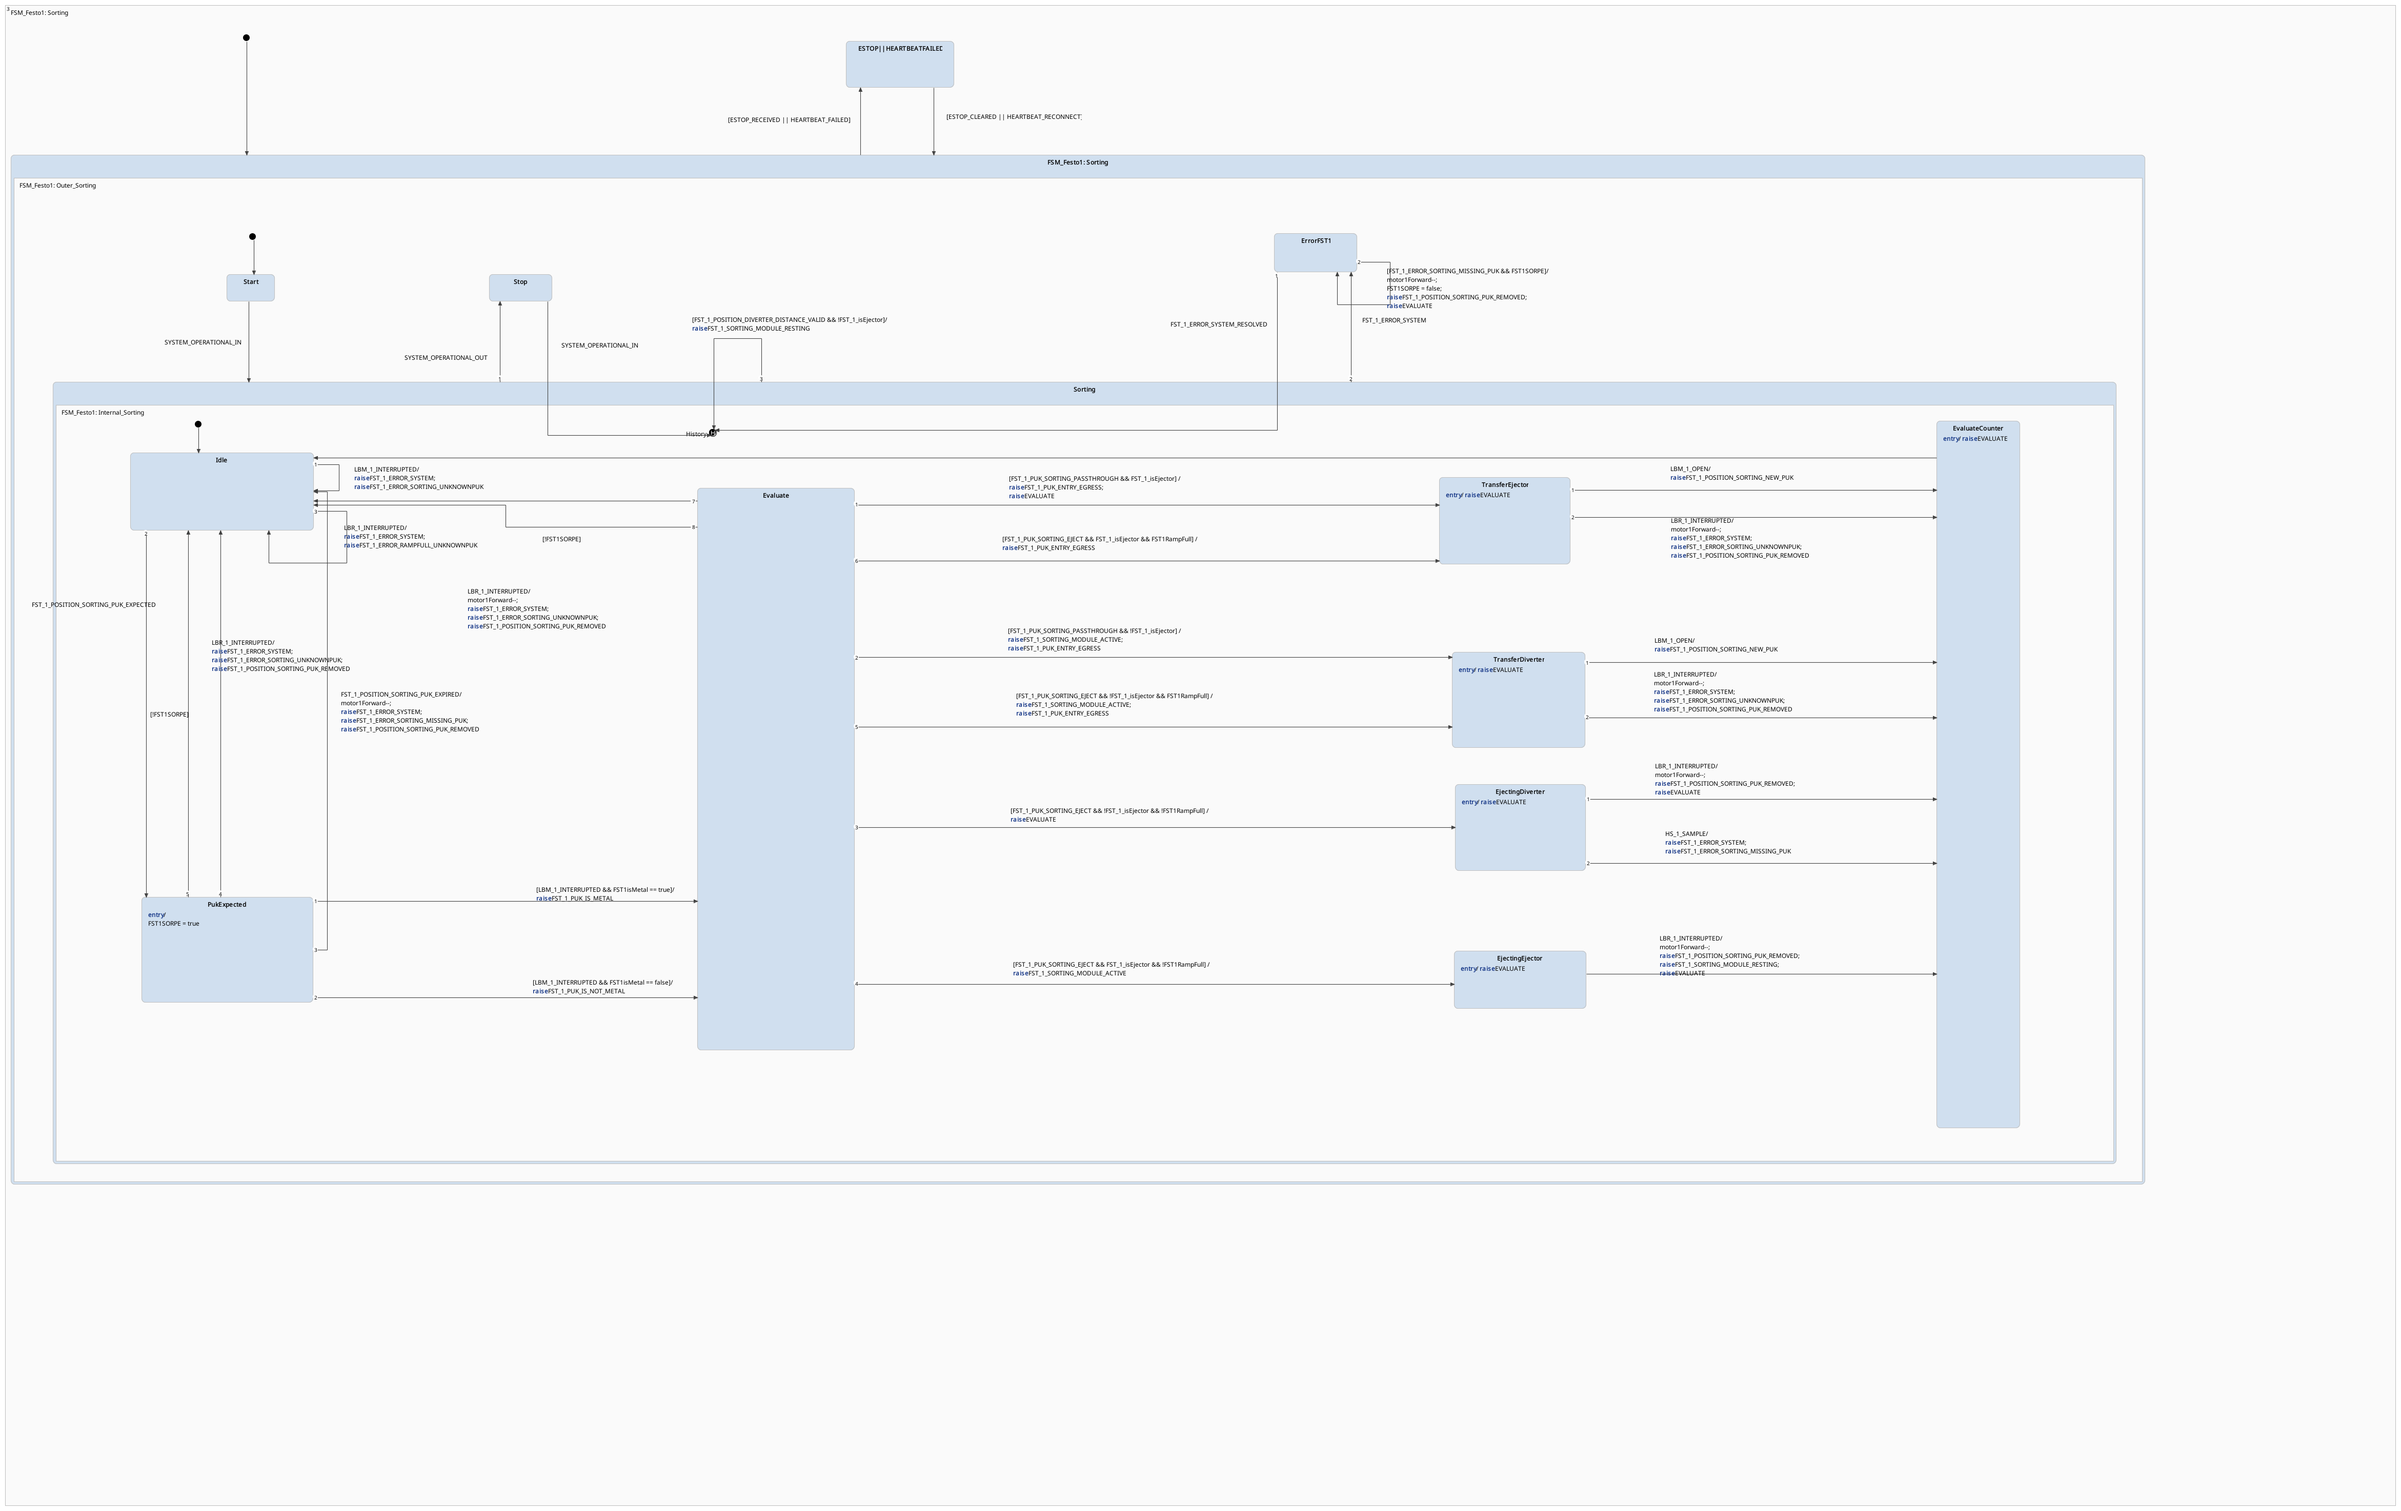
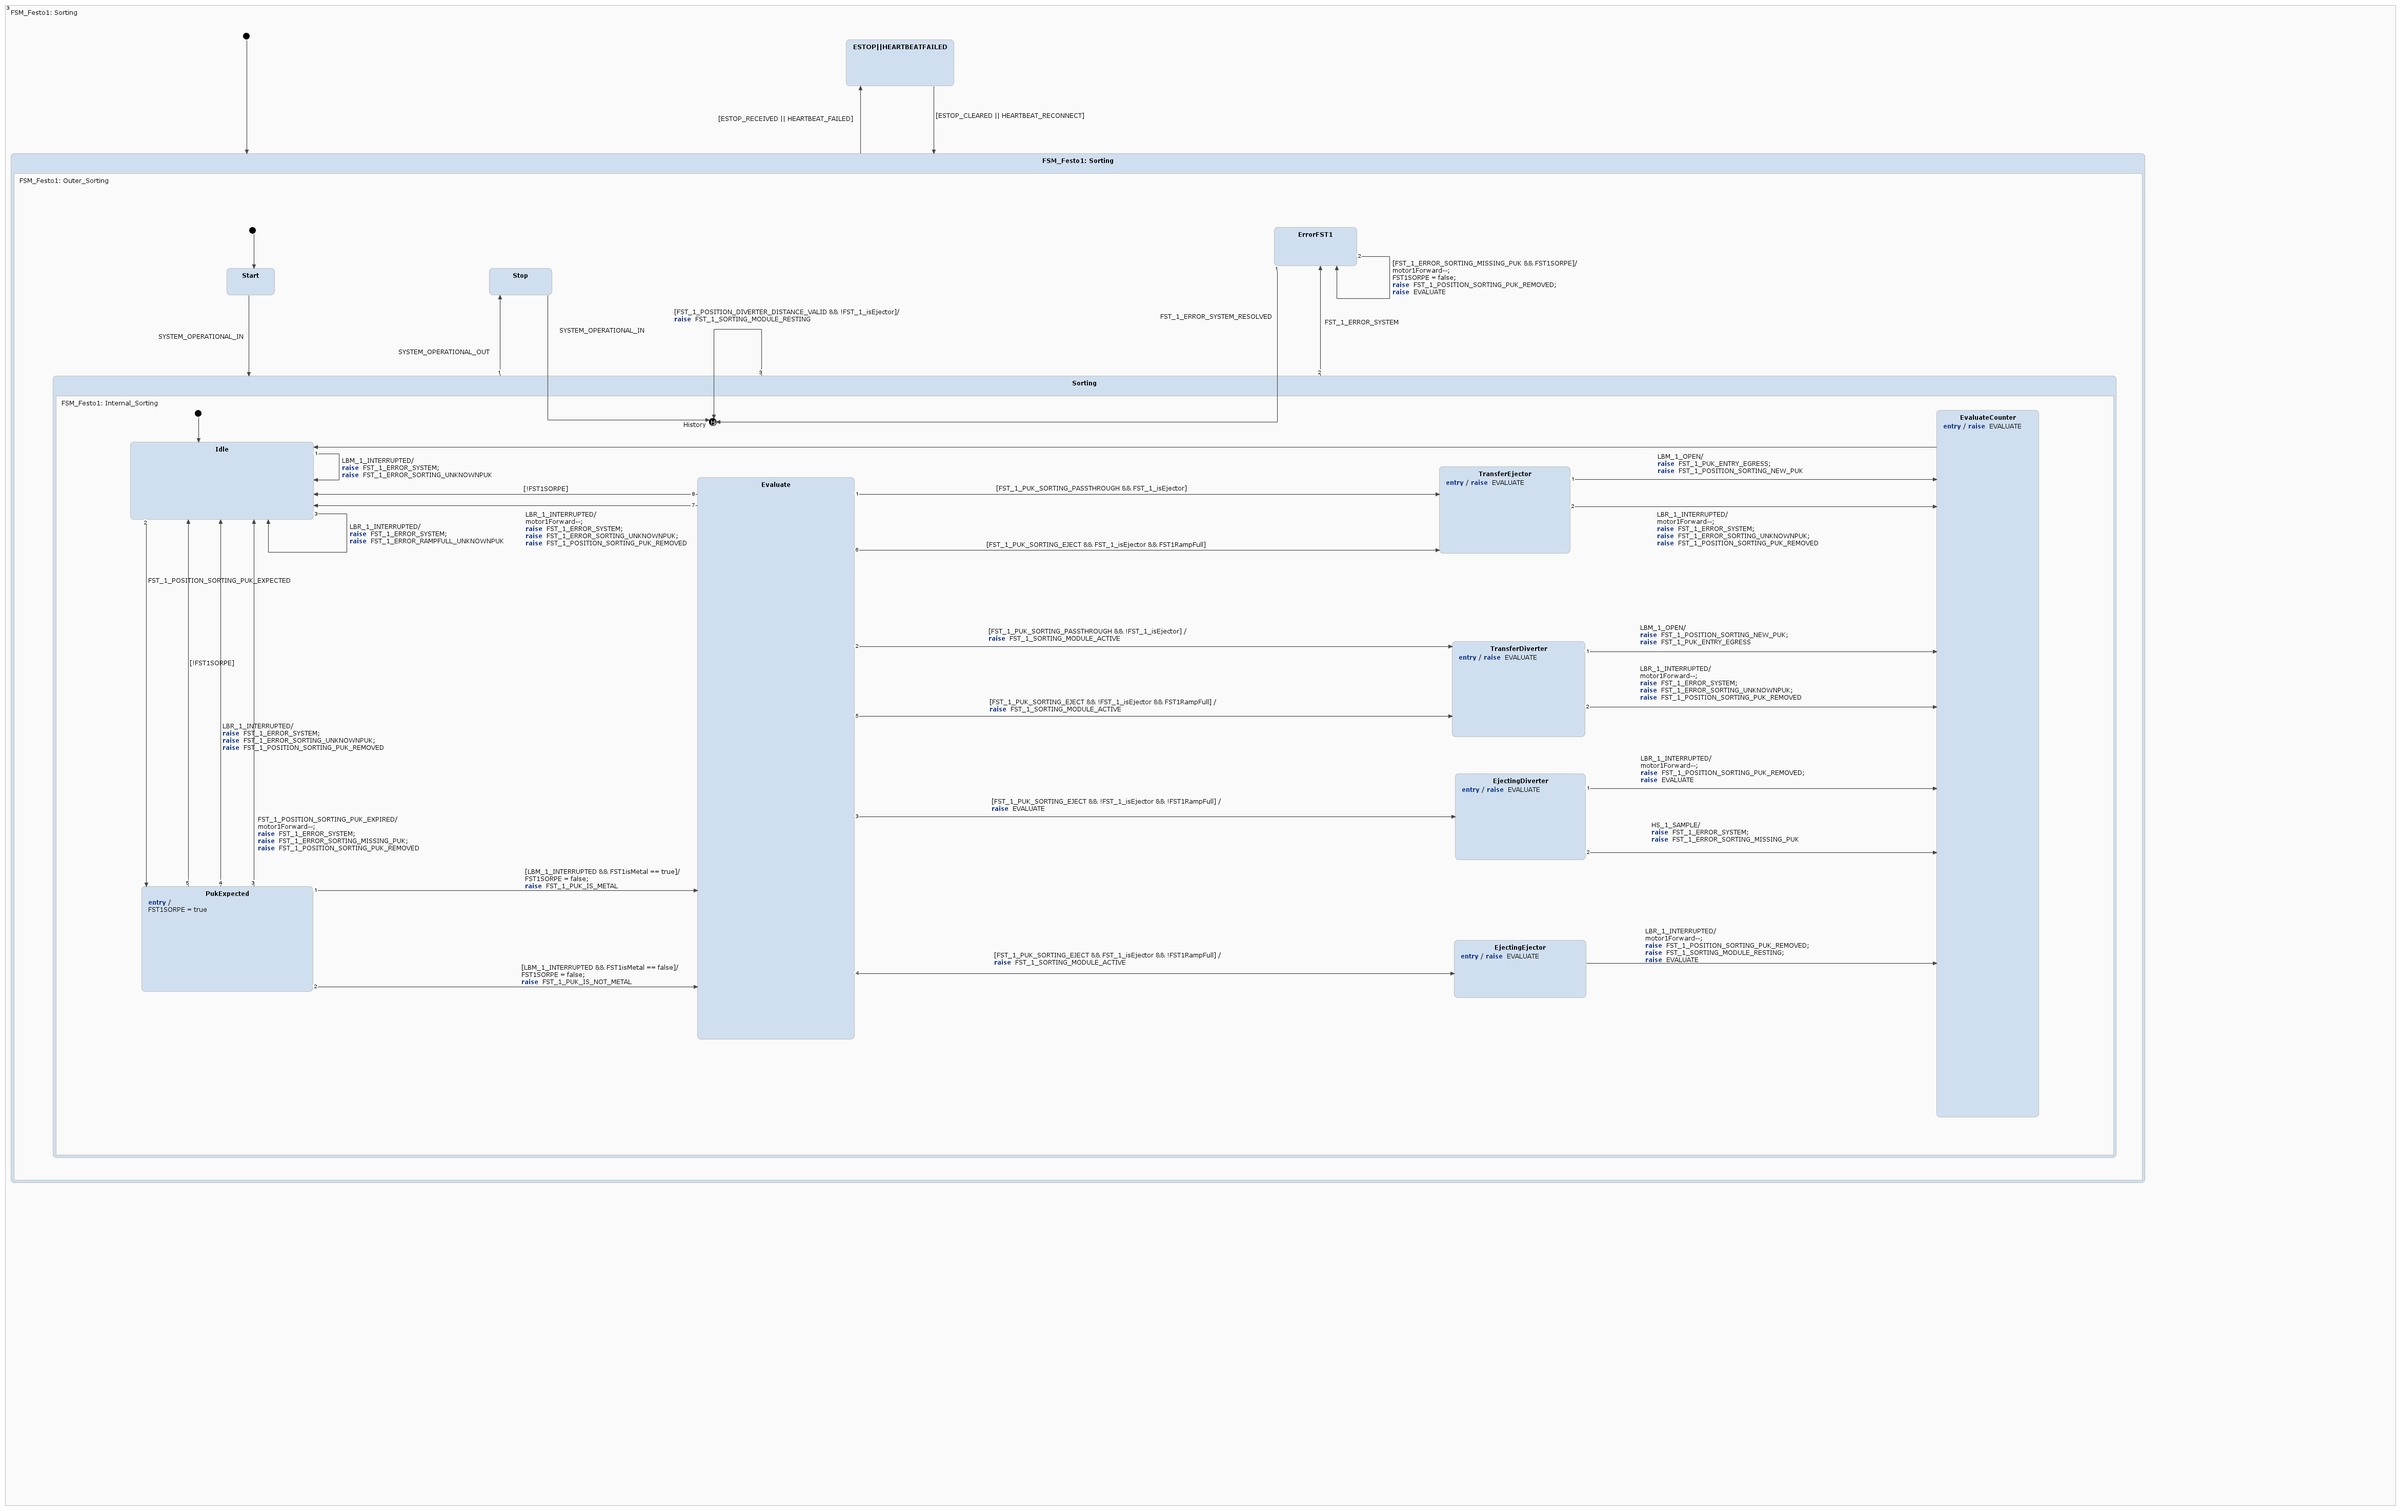
Fix Fst1 Sorting transitions

diff --git a/src/FSM/gen/src-gen/FSM.cpp b/src/FSM/gen/src-gen/FSM.cpp
@@ -15078,6 +15078,7 @@ sc::integer FSM::FSM_Festo1__Sorting_FSM_Festo1__Sorting_FSM_Festo1__Outer_Sorti
 			if ((LBM_1_INTERRUPTED_raised) && ((FST1isMetal) == (true)))
 			{ 
 				exseq_FSM_Festo1__Sorting_FSM_Festo1__Sorting_FSM_Festo1__Outer_Sorting_Sorting_FSM_Festo1__Internal_Sorting_PukExpected();
+				setFST1SORPE(false);
 				FST_1_PUK_IS_METAL_observable.next();
 				enseq_FSM_Festo1__Sorting_FSM_Festo1__Sorting_FSM_Festo1__Outer_Sorting_Sorting_FSM_Festo1__Internal_Sorting_Evaluate_default();
 				FSM_Festo1__Sorting_FSM_Festo1__Sorting_FSM_Festo1__Outer_Sorting_Sorting_react(2);
@@ -15087,6 +15088,7 @@ sc::integer FSM::FSM_Festo1__Sorting_FSM_Festo1__Sorting_FSM_Festo1__Outer_Sorti
 				if ((LBM_1_INTERRUPTED_raised) && ((FST1isMetal) == (false)))
 				{ 
 					exseq_FSM_Festo1__Sorting_FSM_Festo1__Sorting_FSM_Festo1__Outer_Sorting_Sorting_FSM_Festo1__Internal_Sorting_PukExpected();
+					setFST1SORPE(false);
 					FST_1_PUK_IS_NOT_METAL_observable.next();
 					enseq_FSM_Festo1__Sorting_FSM_Festo1__Sorting_FSM_Festo1__Outer_Sorting_Sorting_FSM_Festo1__Internal_Sorting_Evaluate_default();
 					FSM_Festo1__Sorting_FSM_Festo1__Sorting_FSM_Festo1__Outer_Sorting_Sorting_react(2);
@@ -15152,9 +15154,6 @@ sc::integer FSM::FSM_Festo1__Sorting_FSM_Festo1__Sorting_FSM_Festo1__Outer_Sorti
 			if ((FST_1_PUK_SORTING_PASSTHROUGH_raised) && (FST_1_isEjector))
 			{ 
 				exseq_FSM_Festo1__Sorting_FSM_Festo1__Sorting_FSM_Festo1__Outer_Sorting_Sorting_FSM_Festo1__Internal_Sorting_Evaluate();
-				FST_1_PUK_ENTRY_EGRESS_observable.next();
-				EVALUATE_observable.next();
-				raiseLocal_EVALUATE();
 				enseq_FSM_Festo1__Sorting_FSM_Festo1__Sorting_FSM_Festo1__Outer_Sorting_Sorting_FSM_Festo1__Internal_Sorting_TransferEjector_default();
 				FSM_Festo1__Sorting_FSM_Festo1__Sorting_FSM_Festo1__Outer_Sorting_Sorting_react(2);
 				transitioned_after = 2;
@@ -15164,7 +15163,6 @@ sc::integer FSM::FSM_Festo1__Sorting_FSM_Festo1__Sorting_FSM_Festo1__Outer_Sorti
 				{ 
 					exseq_FSM_Festo1__Sorting_FSM_Festo1__Sorting_FSM_Festo1__Outer_Sorting_Sorting_FSM_Festo1__Internal_Sorting_Evaluate();
 					FST_1_SORTING_MODULE_ACTIVE_observable.next();
-					FST_1_PUK_ENTRY_EGRESS_observable.next();
 					enseq_FSM_Festo1__Sorting_FSM_Festo1__Sorting_FSM_Festo1__Outer_Sorting_Sorting_FSM_Festo1__Internal_Sorting_TransferDiverter_default();
 					FSM_Festo1__Sorting_FSM_Festo1__Sorting_FSM_Festo1__Outer_Sorting_Sorting_react(2);
 					transitioned_after = 2;
@@ -15193,7 +15191,6 @@ sc::integer FSM::FSM_Festo1__Sorting_FSM_Festo1__Sorting_FSM_Festo1__Outer_Sorti
 							{ 
 								exseq_FSM_Festo1__Sorting_FSM_Festo1__Sorting_FSM_Festo1__Outer_Sorting_Sorting_FSM_Festo1__Internal_Sorting_Evaluate();
 								FST_1_SORTING_MODULE_ACTIVE_observable.next();
-								FST_1_PUK_ENTRY_EGRESS_observable.next();
 								enseq_FSM_Festo1__Sorting_FSM_Festo1__Sorting_FSM_Festo1__Outer_Sorting_Sorting_FSM_Festo1__Internal_Sorting_TransferDiverter_default();
 								FSM_Festo1__Sorting_FSM_Festo1__Sorting_FSM_Festo1__Outer_Sorting_Sorting_react(2);
 								transitioned_after = 2;
@@ -15202,7 +15199,6 @@ sc::integer FSM::FSM_Festo1__Sorting_FSM_Festo1__Sorting_FSM_Festo1__Outer_Sorti
 								if (((FST_1_PUK_SORTING_EJECT_raised) && (FST_1_isEjector)) && (FST1RampFull))
 								{ 
 									exseq_FSM_Festo1__Sorting_FSM_Festo1__Sorting_FSM_Festo1__Outer_Sorting_Sorting_FSM_Festo1__Internal_Sorting_Evaluate();
-									FST_1_PUK_ENTRY_EGRESS_observable.next();
 									enseq_FSM_Festo1__Sorting_FSM_Festo1__Sorting_FSM_Festo1__Outer_Sorting_Sorting_FSM_Festo1__Internal_Sorting_TransferEjector_default();
 									FSM_Festo1__Sorting_FSM_Festo1__Sorting_FSM_Festo1__Outer_Sorting_Sorting_react(2);
 									transitioned_after = 2;
@@ -15299,6 +15295,7 @@ sc::integer FSM::FSM_Festo1__Sorting_FSM_Festo1__Sorting_FSM_Festo1__Outer_Sorti
 			if (LBM_1_OPEN_raised)
 			{ 
 				exseq_FSM_Festo1__Sorting_FSM_Festo1__Sorting_FSM_Festo1__Outer_Sorting_Sorting_FSM_Festo1__Internal_Sorting_TransferEjector();
+				FST_1_PUK_ENTRY_EGRESS_observable.next();
 				FST_1_POSITION_SORTING_NEW_PUK_observable.next();
 				enseq_FSM_Festo1__Sorting_FSM_Festo1__Sorting_FSM_Festo1__Outer_Sorting_Sorting_FSM_Festo1__Internal_Sorting_EvaluateCounter_default();
 				FSM_Festo1__Sorting_FSM_Festo1__Sorting_FSM_Festo1__Outer_Sorting_Sorting_react(2);
@@ -15341,6 +15338,7 @@ sc::integer FSM::FSM_Festo1__Sorting_FSM_Festo1__Sorting_FSM_Festo1__Outer_Sorti
 			{ 
 				exseq_FSM_Festo1__Sorting_FSM_Festo1__Sorting_FSM_Festo1__Outer_Sorting_Sorting_FSM_Festo1__Internal_Sorting_TransferDiverter();
 				FST_1_POSITION_SORTING_NEW_PUK_observable.next();
+				FST_1_PUK_ENTRY_EGRESS_observable.next();
 				enseq_FSM_Festo1__Sorting_FSM_Festo1__Sorting_FSM_Festo1__Outer_Sorting_Sorting_FSM_Festo1__Internal_Sorting_EvaluateCounter_default();
 				FSM_Festo1__Sorting_FSM_Festo1__Sorting_FSM_Festo1__Outer_Sorting_Sorting_react(2);
 				transitioned_after = 2;
